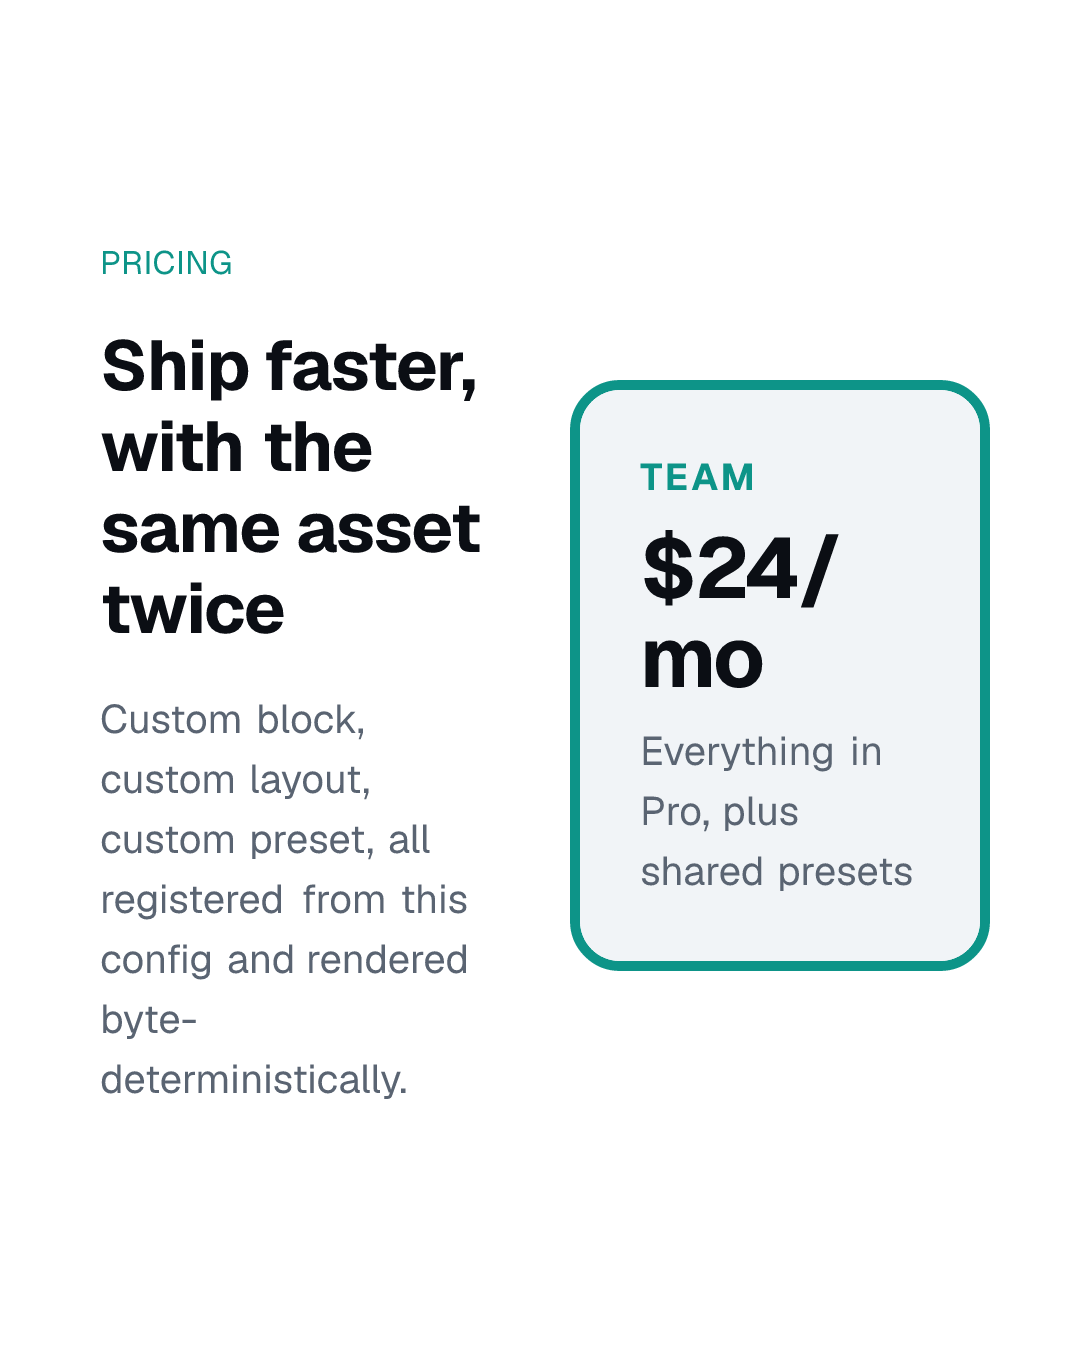
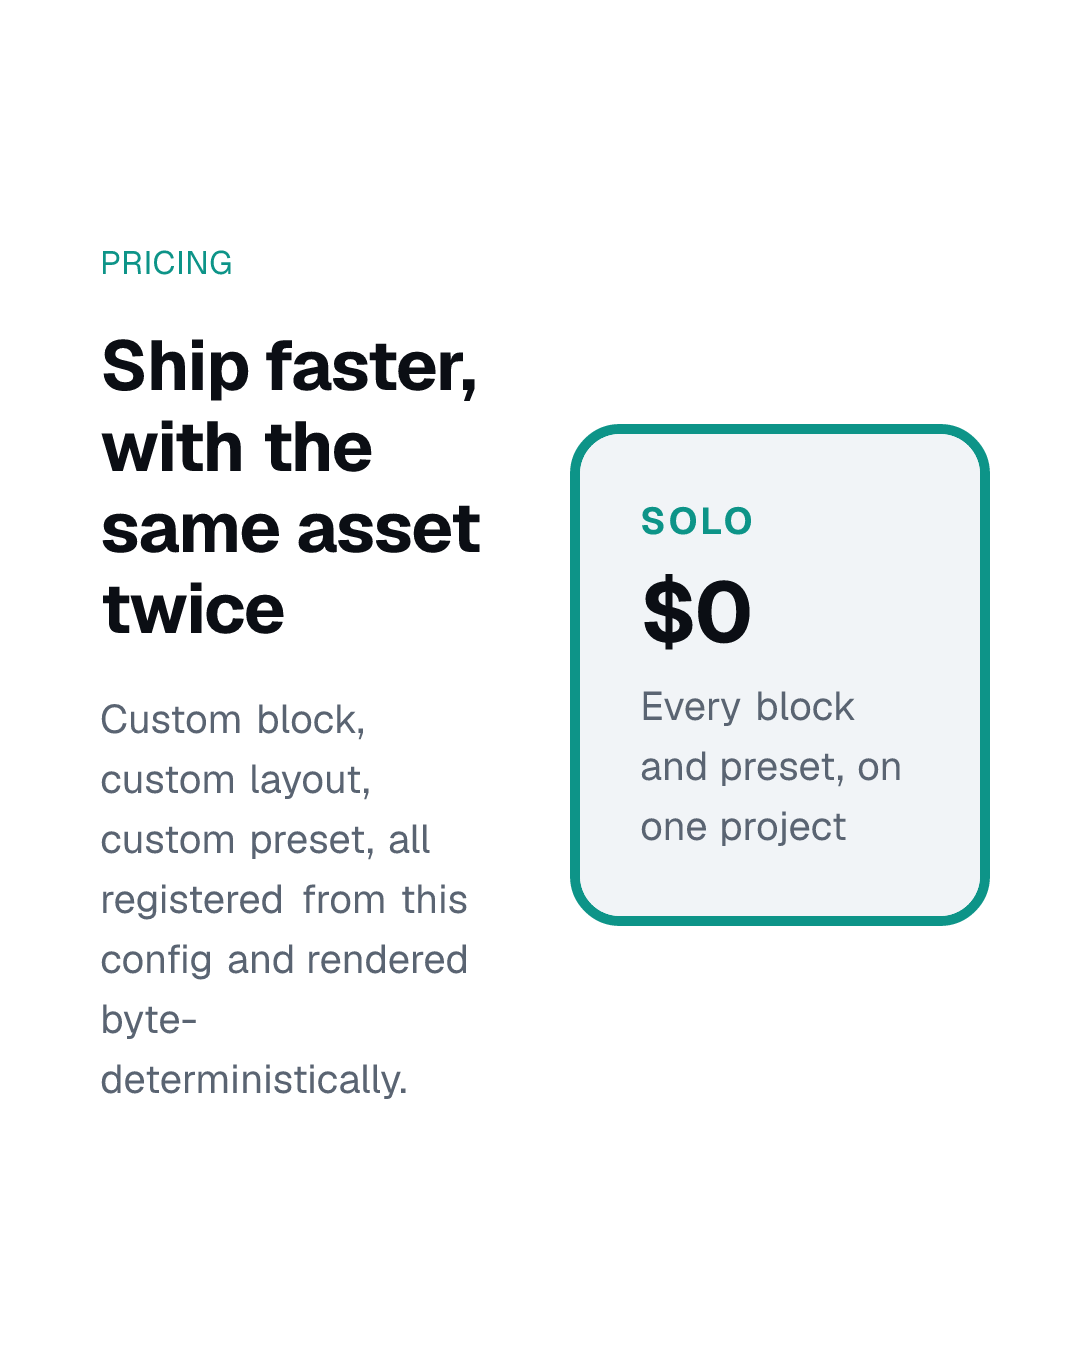
feat(example): make the launch spec a real three-frame carousel
The Stills and Carousels section claimed a multi-frame spec renders frame-01,
frame-02 and so on, then illustrated it with a single still. It is now three
frames, one per pricing tier, sharing the custom layout and block.

The three render to distinct bytes, which is the property worth having rather
than assuming: the renderer this project replaced spent its whole life emitting
slide one under every slide's filename, with a zero exit code and correctly
named output.

Changed region(s): [[0.5194, 0.28, 0.9167, 0.7467]]

diff --git a/README.md b/README.md
@@ -61,14 +61,18 @@ Island in it. `phone` leaves room for them, `phone-notch` draws them.
 ## Stills and Carousels
 
 <p align="center">
-  <img width="320" src="examples/source-app/marketing/launch/frame-01.png" alt="A social still: a headline column beside a pricing card, built from a custom block and layout">
+  <img width="170" src="examples/source-app/marketing/launch/frame-01.png" alt="Carousel frame one: a headline column beside a Solo pricing card">
+  &nbsp;&nbsp;
+  <img width="170" src="examples/source-app/marketing/launch/frame-02.png" alt="Carousel frame two: the same layout with a Pro pricing card">
+  &nbsp;&nbsp;
+  <img width="170" src="examples/source-app/marketing/launch/frame-03.png" alt="Carousel frame three: the same layout with a Team pricing card">
 </p>
 
 The same blocks and tokens make social posts, so a launch announcement is another spec
-rather than another tool. A spec with several frames renders `frame-01`, `frame-02`, and so
-on, which is a carousel. That image uses a block, a layout, and a canvas size that are not
-built in; all three came from a config file, which is how anything mediakit does not ship
-gets added.
+rather than another tool. Those three are one spec: a frame per slide, rendered to
+`frame-01`, `frame-02`, `frame-03`, which is a carousel. They use a block, a layout, and a
+canvas size that are not built in; all three came from a config file, which is how anything
+mediakit does not ship gets added.
 
 ## Commands
 
